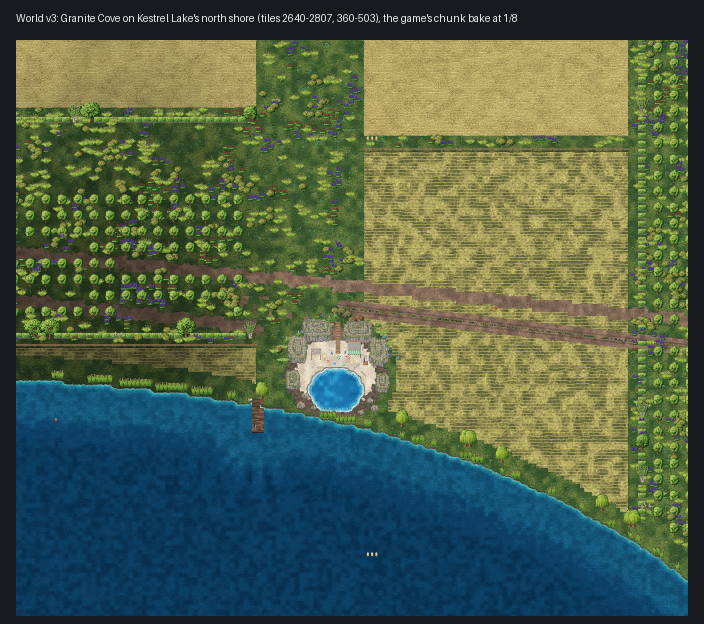
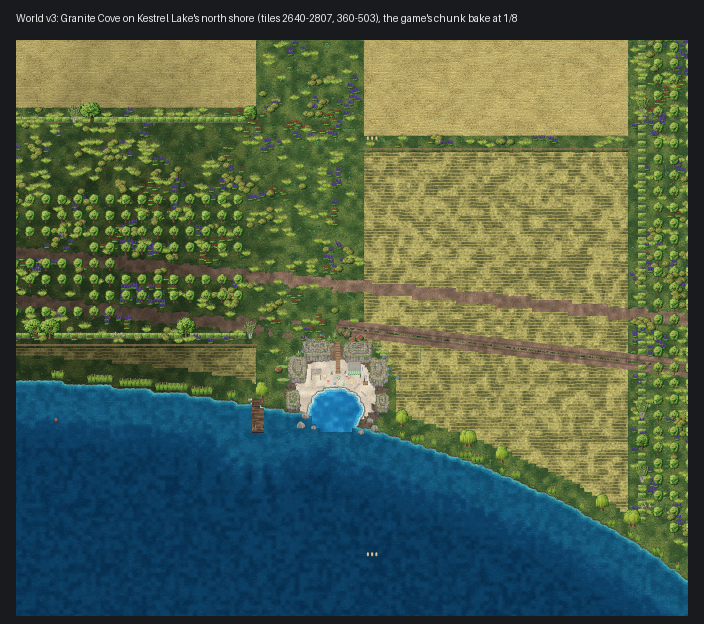
World v3 8.19 (H51): Granite Cove's bay takes Kestrel Lake's water flags (the v3 lakes are river water); its picture with the bay open into the lake
Claude-Session: https://claude.ai/code/session_015TdwbASoLBxZr1VoEZGToX

Changed region(s): [[0.3125, 0.4567, 1.0, 0.7003]]

diff --git a/test/world3wild.test.js b/test/world3wild.test.js
@@ -137,7 +137,12 @@ test('World v3: today\'s wild land\'s country sites at their v3 spots, each on i
   check(flagged.length >= WILD_TRACKS.length && flagged.every((e) => trackNames.has(e.name)) && unflagged.length === 0, `the tracks flagged notraffic (${flagged.length}; others: ${flagged.filter((e) => !trackNames.has(e.name)).map((e) => e.name)}; missed: ${unflagged.map((e) => e.name)})`);
   // (H51) Granite Cove's bay open to Kestrel Lake (water all the way south from the beach), its water the lake's
   const gc = named('Granite Cove')[0];
-  if (gc) { const cx = Math.floor(gc.x / TILE), cy = Math.floor(gc.y / TILE); let wet = 0, lake = 0; for (let ty = cy + 2; ty <= cy + 16; ty++) { if (!m.land[ty * W + cx]) wet++; if (m.lake[ty * W + cx]) lake++; } check(wet === 15 && lake === 15, `Granite Cove's bay open to the lake: ${wet} of 15 tiles south of the beach water, ${lake} the lake's`); }
+  if (gc) {
+    const cx = Math.floor(gc.x / TILE), cy = Math.floor(gc.y / TILE), j0 = (cy + 24) * W + cx;   // (j0: the lake's own water further out)
+    let wet = 0, same = 0;
+    for (let ty = cy + 2; ty <= cy + 16; ty++) { const i = ty * W + cx; if (!m.land[i]) wet++; if (!m.land[i] && m.lake[i] === m.lake[j0] && m.river[i] === m.river[j0]) same++; }
+    check(!m.land[j0] && wet === 15 && same === 15, `Granite Cove's bay open to the lake: ${wet} of 15 tiles south of the beach water, ${same} as the lake's`);
+  }
   // (H51) Route 9's airstrip in the desert
   const strip = named('Route 9 Airstrip')[0];
   check(strip && m.dist[Math.floor(strip.y / TILE) * W + Math.floor(strip.x / TILE)] === 50, 'Route 9\'s airstrip in the desert');

diff --git a/shared/naturesites.js b/shared/naturesites.js
@@ -2811,8 +2811,8 @@ function graniteCove(m, H) {
   const CX = PXs(H, 555, 225), CY = PYs(H, 225);              // the bay's centre (tiles; placed: World v3's peaks' shore)
   const camp = (m.landmarks || []).find((l) => l.name === 'Granite Cove Campground');
   if (!camp || (!H.place && m.dist[CY * m.w + CX] !== 33)) return;   // (World v3: where world3-wild.js MOVED puts it)
-  const LK = H.place && m.lake[(CY + 12) * m.w + CX] ? 1 : 0;   // (World v3: a bay of a lake's is the lake's water)
-  const set = (tx, ty, t, extra = 0) => { const i = ty * m.w + tx; if (KEEP.has(m.tiles[i])) return; m.tiles[i] = t; m.reserve[i] |= RES | extra; if (t === T.WATER) { m.land[i] = 0; m.river[i] = 0; m.lake[i] = LK; } else m.land[i] = 1; };
+  const LJ = (CY + 12) * m.w + CX, LK = H.place ? m.lake[LJ] : 0, RV = H.place ? m.river[LJ] : 0;   // (World v3: a bay of a lake's is the lake's water - the v3 lakes are river water)
+  const set = (tx, ty, t, extra = 0) => { const i = ty * m.w + tx; if (KEEP.has(m.tiles[i])) return; m.tiles[i] = t; m.reserve[i] |= RES | extra; if (t === T.WATER) { m.land[i] = 0; m.river[i] = RV; m.lake[i] = LK; } else m.land[i] = 1; };
   const e = (tx, ty, cx, cy, rx, ry) => ((tx + 0.5 - cx) / rx) ** 2 + ((ty + 0.5 - cy) / ry) ** 2;
   // anything the map had put here goes (the wilds' trees come later and keep off reserved ground)
   m.props.forEach((p, i) => { if (p && p.t !== 'painted' && Math.abs(p.x / TILE - CX) < 16 && p.y / TILE > CY - 16 && p.y / TILE < CY + 10) dropProp(m, i); });

diff --git a/docs/WORLD-V3.md b/docs/WORLD-V3.md
@@ -3860,8 +3860,10 @@ tracks flagged for the traffic look the same). What looks wrong:
   finds (today's stood on a bend) - a bay bitten into it as 8.20's coves are would make it one; the Redwood Cove Track
   is hidden under the redwoods' canopy at 1/8.
 - **Granite Cove's bay was a pond** (the first bake: its bay stopped two tiles short of the lake's real shore, which
-  lies further south than the skeleton's polygon): moved five tiles south (2720, 448) and checked by the test (water
-  all the way from the beach into the lake, the lake's water). Its track is a 351-tile straight line across the
+  lies further south than the skeleton's polygon): moved five tiles south (2720, 448) - the picture now shows the bay
+  open into the lake - and checked by the test (water all the way from the beach into the lake). The bay's water was
+  drawn paler than the lake's: it was flagged as neither lake nor river, and the v3 lakes are river water (8.6) - it
+  takes the lake's flags now. Its track is a 351-tile straight line across the
   valley's fields from Kestrel Road - a lane along the shore would serve it better.
 - The co-op is a plain house (the house2 prefab, as today's); the small things (the fruit stand, the pools' life, the
   driftwood) don't read at 1/8.
